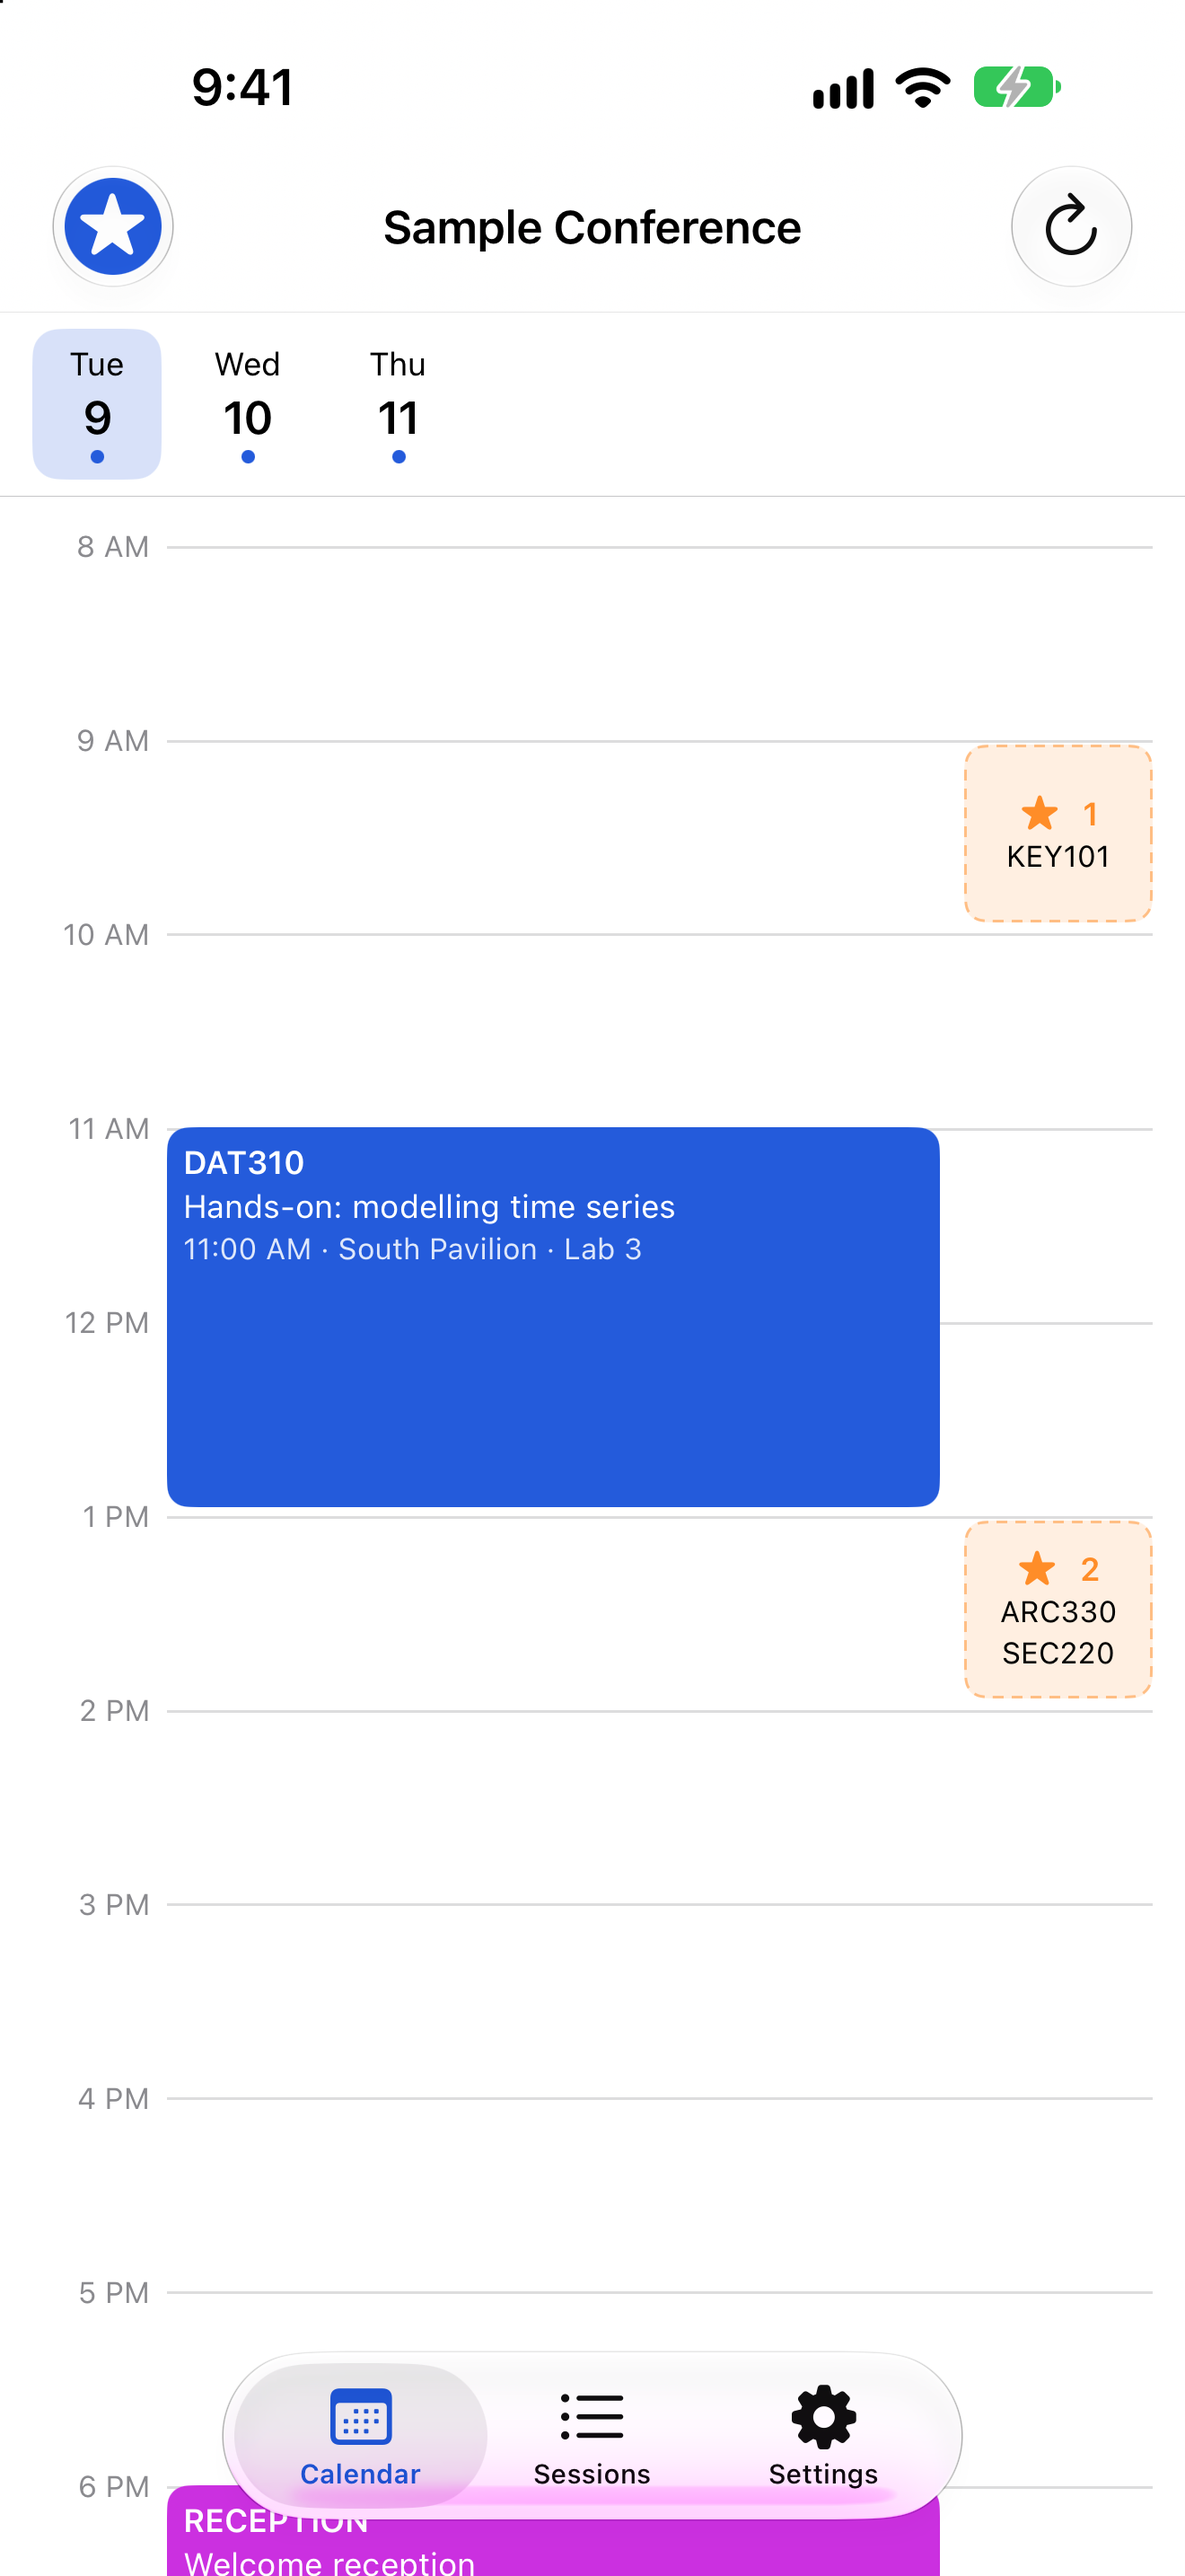
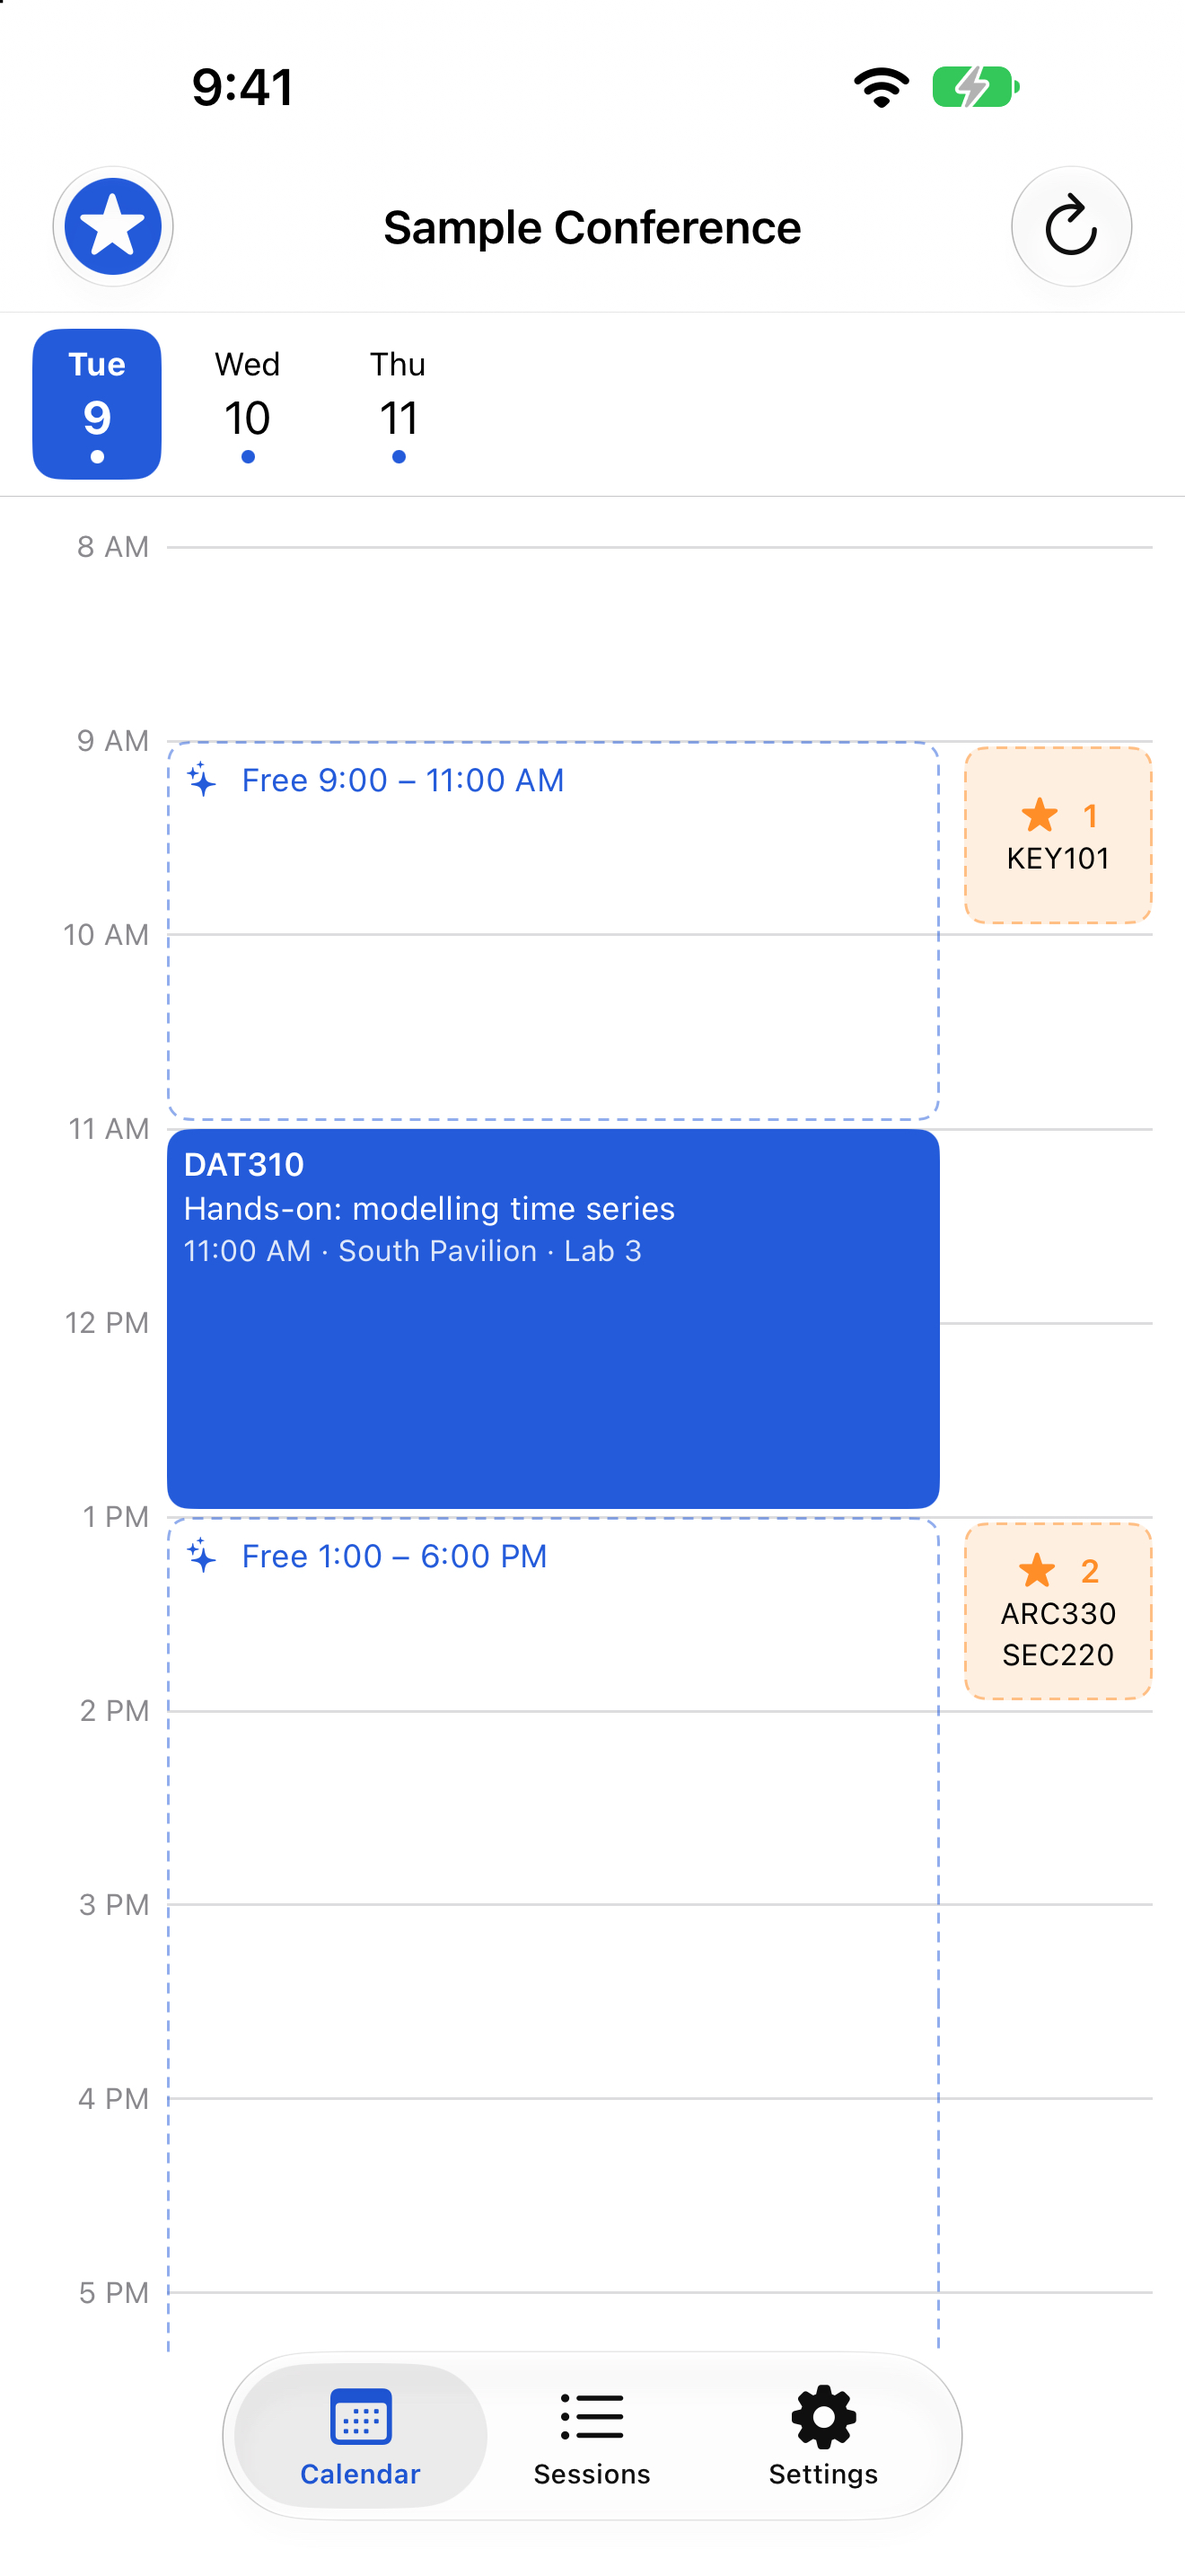
Release prep: Session Planner 1.1 (build 3) (#188)
* Release prep: version 1.1 (build 3) and its App Store text

- MARKETING_VERSION 1.1, CURRENT_PROJECT_VERSION 3 (1.0 builds 1-2 are the
  first release; build numbers keep rising).
- ios/AppStore/README.md: What's New for 1.1 (gap suggestions, Apple
  Calendar, swipe between days, selected-day contrast and large-text hour
  labels), description lines for them, a reviewer-notes paragraph on
  Calendar access, App Privacy unchanged, and the review risk that the
  Calendar setting can't be tried without a registered account.

Nothing is uploaded or submitted; that stays the owner's step.

* Release prep: 1.1 screenshots and a staging argument for the new one

- Retook the five App Store screenshots on the iPhone 18 Pro Max simulator
  (1320 x 2868, flattened) to show 1.1's calendar (selected day, free
  stretches, hour labels) and Settings (Apple Calendar), and added a sixth:
  the sessions that fit a free stretch.
- -shotGap <date> (debug builds only, like the other staging arguments)
  opens that day's first free stretch for the sixth screenshot.
- README: the new screenshot, its staging command, and a note to let the
  simulator settle before capturing.

* Release prep: reviewer access wording, screenshot staging rule in PlannerCore (#188)

- README: "Sign-in required" and the reviewer notes no longer say every
  feature can be reviewed without an account; they name the Apple Calendar
  setting as the exception, and the notes now point the reviewer at
[…]

diff --git a/ios/PlannerCore/Tests/PlannerCoreTests/GapOfferTests.swift b/ios/PlannerCore/Tests/PlannerCoreTests/GapOfferTests.swift
@@ -70,3 +70,24 @@ final class GapOfferTests: XCTestCase {
         XCTAssertNil(Wording.reasons(nothingShared))
     }
 }
+
+final class GapStagingTests: XCTestCase {
+    private let morning = Gap(date: "2027-03-09", start: 540, end: 660, before: .open, after: .at("South Pavilion"))
+    private let afternoon = Gap(date: "2027-03-09", start: 780, end: 1080, before: .at("South Pavilion"), after: .open)
+
+    func testTheRequestedDayOpensItsFirstFreeStretch() {
+        XCTAssertEqual(GapStaging.gapToOpen(requestedDay: "2027-03-09", in: [morning, afternoon]), morning)
+    }
+
+    func testNoRequestOpensNothing() {
+        XCTAssertEqual(GapStaging.gapToOpen(requestedDay: "2027-03-09", in: [morning]), morning) // precondition
+        XCTAssertNil(GapStaging.gapToOpen(requestedDay: nil, in: [morning, afternoon]))
+    }
+
+    func testAnotherDayOrNoFreeStretchOpensNothing() {
+        XCTAssertEqual(GapStaging.gapToOpen(requestedDay: "2027-03-09", in: [morning]), morning) // precondition
+        XCTAssertNil(GapStaging.gapToOpen(requestedDay: "2027-03-10", in: [morning, afternoon]))
+        XCTAssertNil(GapStaging.gapToOpen(requestedDay: "2027-03-09", in: []))
+        XCTAssertNil(GapStaging.gapToOpen(requestedDay: "  ", in: [morning]))
+    }
+}

diff --git a/ios/PlannerCore/Sources/PlannerCore/GapOffers.swift b/ios/PlannerCore/Sources/PlannerCore/GapOffers.swift
@@ -40,3 +40,13 @@ extension Wording {
         suggestion.shared.isEmpty ? nil : "Shares \(suggestion.shared.joined(separator: ", "))"
     }
 }
+
+/// Staging for App Store screenshots: which free stretch to open on launch.
+public enum GapStaging {
+    /// The first of `gaps` when it is on `requestedDay` (a "YYYY-MM-DD" passed at launch);
+    /// otherwise none. No request, a blank one or another day opens nothing.
+    public static func gapToOpen(requestedDay: String?, in gaps: [Gap]) -> Gap? {
+        guard let day = Identifier.clean(requestedDay), let first = gaps.first, first.date == day else { return nil }
+        return first
+    }
+}

diff --git a/ios/SessionPlanner/CalendarScreen.swift b/ios/SessionPlanner/CalendarScreen.swift
@@ -228,6 +228,13 @@ private struct DayView: View {
             .padding(12)
         }
         .sheet(item: $openGap) { GapSheet(gap: $0.gap) }
+        // For App Store screenshots (debug builds only): `-shotGap 2027-03-09` opens that day's
+        // first free stretch.
+        .onAppear {
+            if openGap == nil, let gap = GapStaging.gapToOpen(requestedDay: Launch.string("shotGap"), in: gaps) {
+                openGap = OpenGap(gap: gap)
+            }
+        }
     }
 }
 

diff --git a/ios/AppStore/README.md b/ios/AppStore/README.md
@@ -39,7 +39,7 @@ own screens, is still "Session Planner". Apple expects the two to be recognisabl
 (guideline 2.3.8); if a reviewer objects, either rename the app record or change the display
 name in the project (`INFOPLIST_KEY_CFBundleDisplayName`) and upload a new build.
 
-## Version information (1.0)
+## Version information (1.1)
 
 **Promotional text (170)**
 
@@ -56,8 +56,16 @@ A CALENDAR, NOT A LIST
 • Sessions that overlap sit side by side, so a clash is obvious.
 • Favorites stay out of the way until you ask for them, then appear as one marker per hour that opens the list.
 
+• Swipe left or right to move between days; the selected day is easy to spot in light and dark mode.
+
+FILL A GAP IN YOUR DAY
+• Free stretches of 30 minutes or more show on the calendar. Tap one to see the sessions you could still make there, most like the ones you picked first, with what they share with your picks and whether there is a seat to reserve or a walk-up line.
+
 KNOW WHEN A WALK IS TOO TIGHT
 • The app warns you when two sessions in different venues are less than 30 minutes apart.
+
+YOUR SESSIONS IN APPLE CALENDAR (OPTIONAL)
+• Turn on "Add reserved sessions to Calendar" in Settings and your reserved sessions go into a calendar of their own, kept up to date as your schedule changes, next to your other events and alerts. It is off until you turn it on, and the app only ever changes the events it made.
 
 FIND AND CHANGE SESSIONS
 • Search the whole catalog by code, title, speaker or topic.
@@ -71,6 +79,7 @@ PRIVATE BY DESIGN
 • You sign in on AWS's own page. The app never sees your password.
 • Your sign-in is kept in the iPhone's keychain, on this device only.
 • No analytics, no ads, no tracking, and no server of the developer's.
+• Readable at every text size, including the largest accessibility sizes.
 
 TRY IT FIRST
 • No Builder ID? Choose "Try the sample conference" to explore every screen with made-up sessions.
@@ -87,9 +96,16 @@ No AWS or re:Invent trademark is used in the name, subtitle or keywords on purpo
 rejects other companies' trademarks there (guideline 2.3.7). They appear only in the
 description, descriptively, with the trademark line.
 
-**What's New**
+**What's New (1.1)**
 
-First release.
+```
+• Fill a gap: free stretches on the calendar now show the sessions you could still make there, most like your picks first.
+• Apple Calendar: optionally add your reserved sessions to a calendar of their own, kept up to date as your schedule changes.
+• Swipe left or right to change day.
+• The selected day stands out clearly, and the hours stay readable at the largest text sizes.
+```
+
+(1.0: First release.)
 
 ## Screenshots
 
@@ -97,11 +113,14 @@ In `ios/AppStore/screenshots/`, taken on the iPhone 6.9" simulator with the samp
 (no real schedule, names or sessions appear). Upload them in this order to the 6.9" slot; App
 Store Connect scales them for smaller iPhones.
 
-1. `1-calendar.png`: the day as a calendar, with a venue-change warning and favorites
-2. `2-day.png`: a quieter day with an invitation
+1. `1-calendar.png`: the day as a calendar, with a venue-change warning, favorites and a free stretch
+2. `2-day.png`: a quieter day with two free stretches and favorites
 3. `3-session.png`: a session with reserve and favorite
 4. `4-sessions.png`: the session list with search and "Seats open"
-5. `5-settings.png`: counts, update, account and privacy
+5. `5-settings.png`: counts, update, the Apple Calendar setting, account and privacy
+6. `6-suggestions.png` (new in 1.1): the sessions that fit a free stretch, with what they share and how to get in
+
+Retaken for 1.1 on the iPhone 18 Pro Max simulator (1320 × 2868), flattened (no alpha).
 
 The app is iPhone only, so no iPad screenshots are needed.
 
@@ -115,13 +134,18 @@ xcrun simctl launch <device> us.mannix.sessionplanner -mode demo -showFavorites 
 xcrun simctl io <device> screenshot 1-calendar.png
 ```
 
-The other four use `-shotDay 2027-03-09`; `-shotTab sessions -shotSession demo-104`;
-`-shotTab sessions -shotFilter "Seats open"`; and `-shotTab settings`. Simulator screenshots
+The others use `-shotDay 2027-03-09`; `-shotTab sessions -shotSession demo-104`;
+`-shotTab sessions -shotFilter "Seats open"`; `-shotTab settings`; and for the sixth
+`-shotDay 2027-03-09 -shotGap 2027-03-09`, which opens that day's first free stretch. Boot the
+simulator and let it settle (one plain launch first) before capturing, or the first shot can
+catch the home screen. Simulator screenshots
 carry an alpha channel, which App Store Connect refuses: flatten them before uploading.
 
 ## App Privacy ("nutrition label")
 
 Answer **"No, we do not collect data from this app."** The result is "Data Not Collected".
+Unchanged in 1.1: the Apple Calendar copy is written on the phone into the user's own Calendar
+account and is never sent to the developer.
 
 Why that is accurate: the developer has no server and receives nothing. The app sends the
 user's requests straight to AWS, on the user's instruction, using the user's own sign-in.
@@ -140,20 +164,22 @@ not ask.
 
 | Field | Value |
 | --- | --- |
-| Sign-in required | **No** (see notes: every feature can be reviewed without an account; whether Apple accepts that in place of a demo account is its call, see "No test account" under risks) |
+| Sign-in required | **No** to try the sample conference. The "Add reserved sessions to Calendar" setting requires a registered attendee account. Apple decides whether to accept the sample in place of a demo account (see "No test account" and "Calendar permission" under risks). |
 | Contact first name, last name, phone, email | **YOU** |
 
-**Notes for the reviewer** (paste as is)
+**Notes for the reviewer** (paste as is; the APPLE CALENDAR paragraph is new in 1.1)
 
 ```
 Session Planner shows an attendee's AWS re:Invent schedule as a calendar.
 
 HOW TO REVIEW WITHOUT AN ACCOUNT
 On the first screen, tap "Try the sample conference". This loads a made-up conference stored
-in the app and exercises every feature with no account and no network: the calendar, favorites,
-the venue-change warning (open Wed 10), search and filters, session details, adding and removing
+in the app. Without an account or network, you can try the in-app calendar, swiping between days,
+favorites, the venue-change warning (open Wed 10), the free stretches and the sessions that fit
+them (tap "Free 9:00 – 11:00 AM" on Tue 9), search and filters, session details, adding and removing
 a favorite, reserving a seat (try ARC420 to see a refused clash, SEC220 to see a success) and
-cancelling a reservation.
+cancelling a reservation. The "Add reserved sessions to Calendar" setting is disabled in the
+sample conference (see APPLE CALENDAR below).
 
 ABOUT SIGN-IN
 "Sign in with AWS Builder ID" is for people registered for the event. A Builder ID that is not
@@ -166,6 +192,15 @@ publishes a shared public client ID for this purpose and states that an applicat
 distributed to attendees as long as it signs them in on their own device, which this app does.
 The app opens AWS's own sign-in page in a system authentication sheet, never sees the password,
 and stores the resulting token in the keychain.
+
+APPLE CALENDAR (new in 1.1)
+Settings > "Add reserved sessions to Calendar" is off by default. When turned on it asks for
+Calendar access and writes the signed-in attendee's reserved sessions into a calendar of their
+own, kept up to date. Full access (not write-only) is needed because the app must find its own
+events again to move or remove them when a session changes or is cancelled; it never changes
+any other event. The setting needs a signed-in attendee, so it is disabled in the sample
+conference and cannot be exercised without a registered account; the usage text is shown
+before access is requested.
 
 The app is independent. It is not affiliated with, sponsored by or endorsed by Amazon Web
 Services, and says so on its first screen and in Settings. It has no analytics, ads, tracking
@@ -186,8 +221,12 @@ or server of its own.
 - **Trademarks (2.3.7, 5.2.1).** Kept out of the name, subtitle, keywords and icon.
 - **Sign in with Apple (4.8).** Not required: the app offers a single sign-in that is the
   service's own account system, with no third-party social login offered by the app itself.
+- **Calendar permission without a way to try it (5.1.1, 2.1), new in 1.1.** The reviewer can
+  see the permission text but cannot turn the feature on without a registered account. The
+  notes explain this. If Apple asks to see it working, the options are a screen recording made
+  on a signed-in phone, or allowing the setting in the sample conference (a code change).
 - **Usefulness outside the event (4.2).** The app is for one event's attendees. The sample
-  conference shows the full function; say so if asked.
+  conference shows the planning workflow; say so if asked.
 
 ## Building and uploading
 
@@ -217,7 +256,8 @@ it has already seen for the same version.
 
 ## After approval
 
-- The version string is `1.0`. Use `1.0.1` and up for fixes.
+- The version string is `1.1` (build 3) for the second release; `1.0` (builds 1–2) was the
+  first. Use `1.1.1` and up for fixes, and raise the build number for every upload.
 - re:Invent 2026 runs 30 November to 4 December 2026. Review usually takes one to three days
   but can take longer, and is not guaranteed before the event. TestFlight internal testing
   (your own team's Apple IDs) needs no review and is the dependable route for that week.
